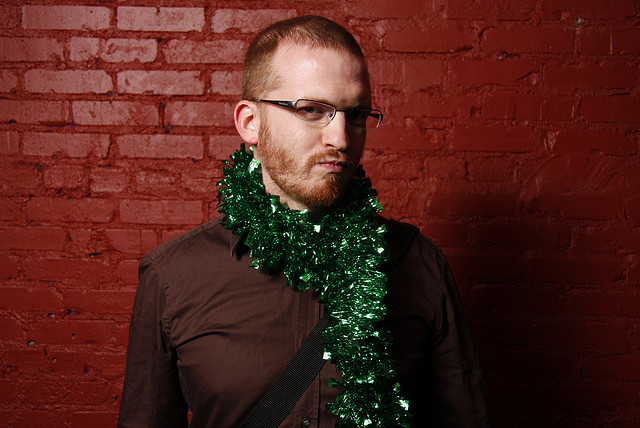
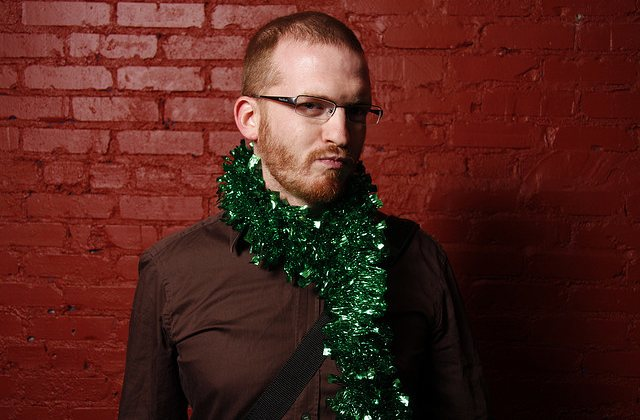
Updating images and adding blake's bio.

diff --git a/blake.md b/blake.md
@@ -1,13 +1,13 @@
 ---
 layout: bio
-title: heyrocker
-twitter: heyrocker
-github: heyrocker
-homepage: http://www.heyrocker.com
-image: /images/greg.jpeg
+title: blake
+twitter: blakehall
+github: blakehall
+homepage: http://blakehall.org/
+image: /images/blake.jpeg
 facts: 
-  - More of a pinball mage, really
-  - Can meow in nine languages
+  - Born in Jamaica
+  - Just like Cool Runnings
 ---
 Lorem ipsum dolor sit amet, consectetur adipiscing elit. Morbi at enim in neque vehicula mollis vitae eu mauris. Integer convallis, nulla porta consectetur tempus, dui ligula dignissim justo, sed facilisis lorem mauris sollicitudin dui. Nullam consequat, ligula in accumsan tincidunt, augue metus auctor arcu, at auctor sapien libero vitae dui. Donec sit amet elit odio, at tincidunt metus. Phasellus ultrices ullamcorper ante, sit amet scelerisque tortor malesuada ac. Maecenas ultrices tellus ac lectus iaculis quis tempor erat sollicitudin.
 
